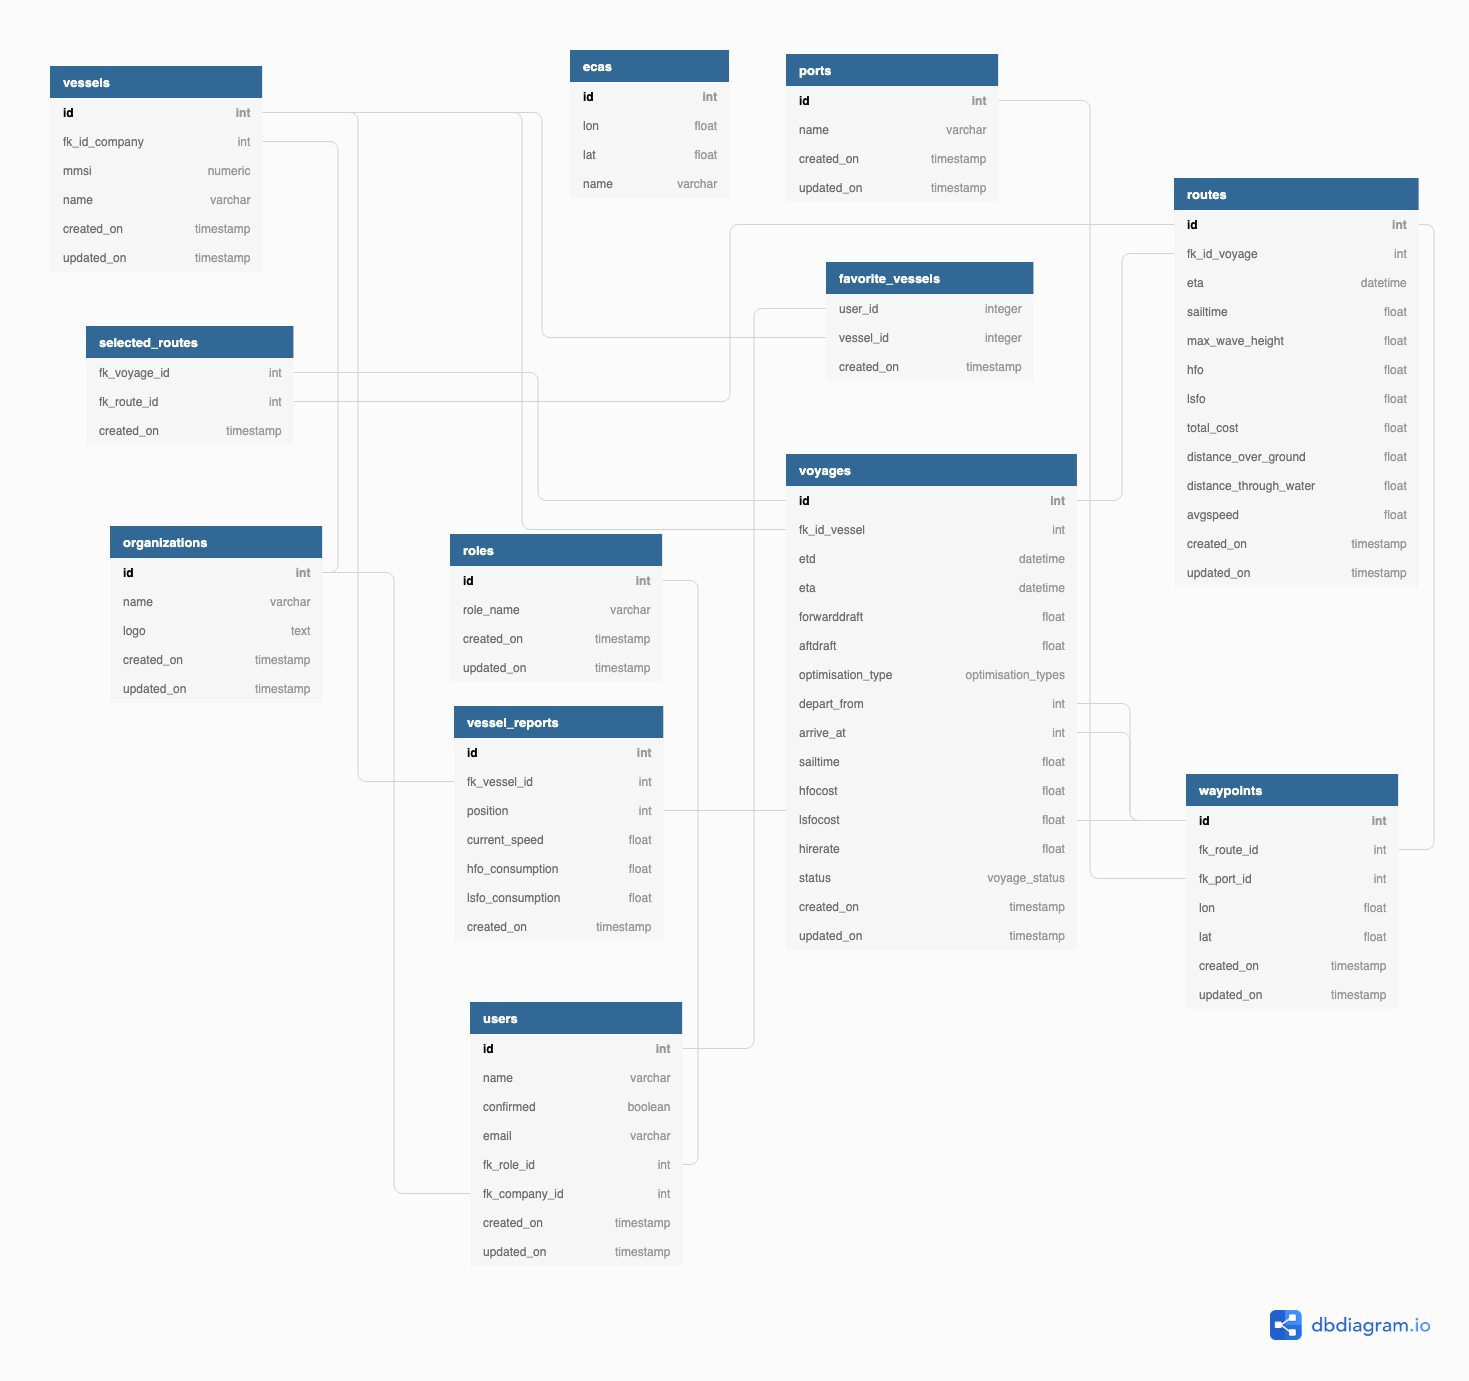
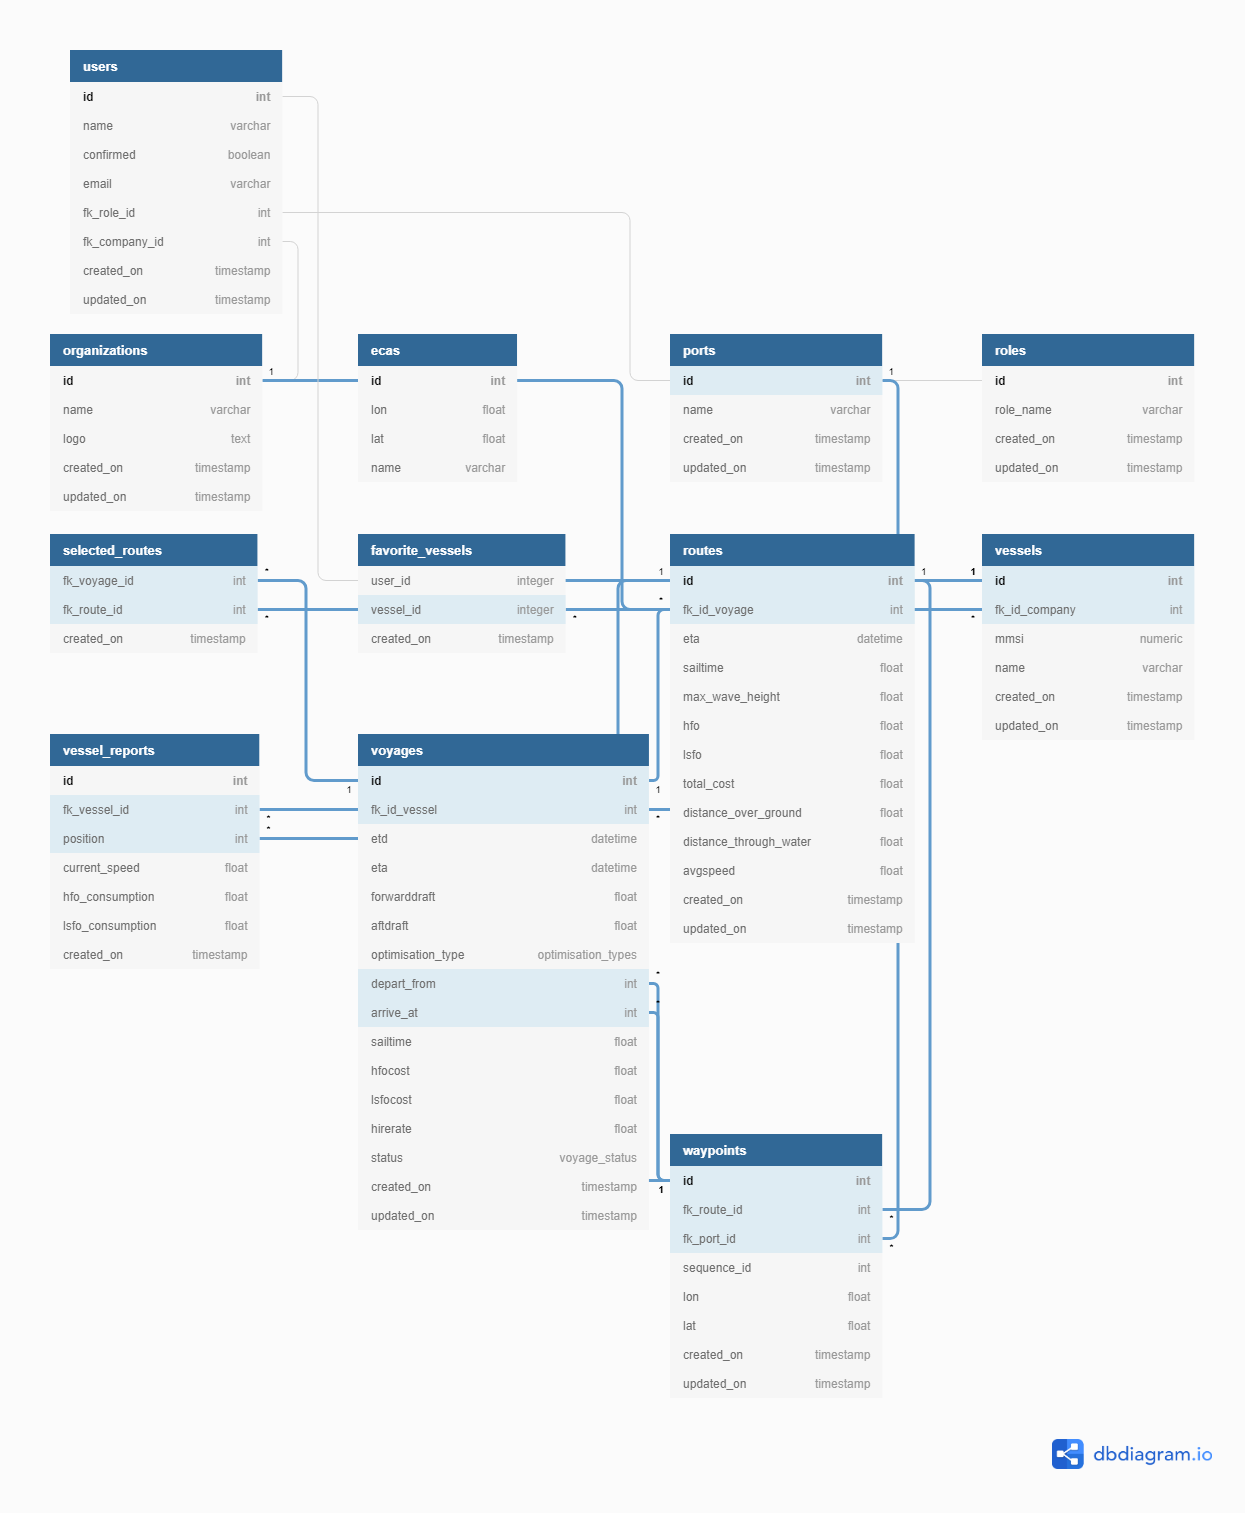
Create sequence waypoints (#28)
* DB Schema updated to show the sequence id added to waypoints table

* DB Schema updated to show the sequence id added to waypoints table

* Sequence id added to the waypoints database table

* Sequence id added to the waypoints database table & updated the DB Schema to reflect changes

* Updated to reflect the addition of sequence id to the waypoints table

diff --git a/src/server/migrations/20190911190658_add_sequence_id_to_waypoints.js b/src/server/migrations/20190911190658_add_sequence_id_to_waypoints.js
@@ -1,0 +1,13 @@
+"use strict";
+
+exports.up = function(knex, Promise) {
+  return knex.schema.table("waypoints", table => {
+    table.integer("sequence_id").unsigned();
+  });
+};
+
+exports.down = function(knex, Promise) {
+  return knex.schema.table("waypoints", table => {
+    table.dropColumn("sequence_id");
+  });
+};

diff --git a/README.md b/README.md
@@ -63,7 +63,7 @@ containing specifications on current position, speed, consumption and more.
 
 To get you started we have created a Database schema for you to follow. You can
 see a preview above or you can go to
-[dbdiagram.io](https://dbdiagram.io/d/5d67d65dced98361d6de0804) This schema is
+[dbdiagram.io](https://dbdiagram.io/d/5d798d7283427516dc0b9212) This schema is
 expected to change over the duration of the project, but since everyone is
 working on the same project it is important that you follow some guidelines if
 you need to change the DB.
@@ -199,30 +199,50 @@ https://knexjs.org/#Builder-identifier-syntax
 ### 📦 NPM scripts and commands
 
 | Command            | Note                                                                                                                                                |
-|--------------------|-----------------------------------------------------------------------------------------------------------------------------------------------------|
+| ------------------ | --------------------------------------------------------------------------------------------------------------------------------------------------- |
 | `npm run build`    | Build the project in production mode.                                                                                                               |
 | `npm start`        | Runs `build` and starts the project (to be used on production servers).                                                                             |
 | `npm run client`   | Runs the client application and serves it with webpack development server.                                                                          |
 | `npm run server`   | Runs the server and serves it via Nodemon, meaning that the server will automatically be restarted when you make code changes.                      |
-| `npm run dev`      | Runs `client` and `server` concurrently. *This is generally the command you run for development*.                                                   |
+| `npm run dev`      | Runs `client` and `server` concurrently. _This is generally the command you run for development_.                                                   |
 | `npm run db:setup` | Runs `knex migrate:latest` and `knex seed:run`. Quick setup to get a fresh database ready for work.                                                 |
 | `npm run do`       | Utility that allows you to easily run cli commands on npm packages installed in your `node_modules` folder without having to install them globally. |
 
 ## ✈ Working with migrations
 
-Migrations are there to help manage your database when you are working in a team. The goal of a migration is to take your database from one place (state) to another. So it is bit like travelling. Traveling in time even?
+Migrations are there to help manage your database when you are working in a
+team. The goal of a migration is to take your database from one place (state) to
+another. So it is bit like travelling. Traveling in time even?
 
 We are trying to solve two main things with migrations:
-- The pain of keeping the local database in your development environment up to date.
-- The challenge of making schema changes to a database with real production data in a predictable manner.
 
-Since are typically managed by writing ad hoc SQL to create the database, create new tables, change tables and change the data inside the database, migrations makes all of these tasks repeatable and predictable by basically adding all of these changes to git. Essentially the solution is to never manipulate the database schema directly with ad hoc queries, but always to out those queries in a script that is stored in git. Furthermore, since git allows you to "travel in time" by checking out past commits, changing branches, etc. we need a way for the database to keep up.
+- The pain of keeping the local database in your development environment up to
+  date.
+- The challenge of making schema changes to a database with real production data
+  in a predictable manner.
+
+Since are typically managed by writing ad hoc SQL to create the database, create
+new tables, change tables and change the data inside the database, migrations
+makes all of these tasks repeatable and predictable by basically adding all of
+these changes to git. Essentially the solution is to never manipulate the
+database schema directly with ad hoc queries, but always to out those queries in
+a script that is stored in git. Furthermore, since git allows you to "travel in
+time" by checking out past commits, changing branches, etc. we need a way for
+the database to keep up.
 
 ### Up 🛫 and down 🛬 migrations
 
-We do so by having two types of migrations. There are up migrations (🛫) that describes how to travel somewhere and there are down migrations (🛬) that describe how to get back home again. The down migrations are key, since these are what allows you to take your database back to an old state whenever you are checking out an old commit or a branch from before a certain up migration was applied. A down migration must always be the exact opposite of an up migration. A couple of examples in pseudo code (not real code! refer to the Knex section to learn to write real migrations):
+We do so by having two types of migrations. There are up migrations (🛫) that
+describes how to travel somewhere and there are down migrations (🛬) that
+describe how to get back home again. The down migrations are key, since these
+are what allows you to take your database back to an old state whenever you are
+checking out an old commit or a branch from before a certain up migration was
+applied. A down migration must always be the exact opposite of an up migration.
+A couple of examples in pseudo code (not real code! refer to the Knex section to
+learn to write real migrations):
 
 Creating tables:
+
 ```
 up migration:
   create table products
@@ -235,27 +255,31 @@ down migration:
 ```
 
 Renaming columns
+
 ```
 up migration:
   select table products
     rename column
       "name" > "product name"
-      
-      
+
+
 down migration:
   select table products
     rename column
       "product name" > "name"
 ```
 
-In some cases you might have real data in your database that you need to transform in some way. Again you must be careful to write a down migration to revert those changes:
+In some cases you might have real data in your database that you need to
+transform in some way. Again you must be careful to write a down migration to
+revert those changes:
+
 ```
 up migration:
   select table products
     select "name" from products
       replace string "foo" to "bar"
-      
-      
+
+
 down migration:
   select table products
     select "name" from products
@@ -264,7 +288,9 @@ down migration:
 
 ### Working with Knex.js
 
-Now we have an idea what migrations are it is time to introduce [Knex.js](http://knexjs.org/). We use Knex.js to facilitate migrations, but it does a few other things for us:
+Now we have an idea what migrations are it is time to introduce
+[Knex.js](http://knexjs.org/). We use Knex.js to facilitate migrations, but it
+does a few other things for us:
 
 - Manage database connection
 - Manage migrations and seed files
@@ -273,46 +299,69 @@ Now we have an idea what migrations are it is time to introduce [Knex.js](http:/
 
 ### 🔌 Database connection
 
-Knex.js helps us connect to the database quickly. Take a look at the [Knexfile](/src/server/knexfile.js).
+Knex.js helps us connect to the database quickly. Take a look at the
+[Knexfile](/src/server/knexfile.js).
 
-The file contains some database credentials (which are referenced from environment variables for security reasons) and some configuration including setting a path to the seeds directory. This file is really all you need to start connecting to your database when using Knex. 
+The file contains some database credentials (which are referenced from
+environment variables for security reasons) and some configuration including
+setting a path to the seeds directory. This file is really all you need to start
+connecting to your database when using Knex.
 
 ### ✈ Migration files in Knex.js
 
 So we learned a bit about migrations, but how do you use Knex to make them?
 
-Knex works by scanning the `/migrations` folder and looking for migrations *that have not yet been applied to the database*. How does it keep track of this? Easy. It has it's own table in the database `knex_migrations` where migrations are added once they have been run.
+Knex works by scanning the `/migrations` folder and looking for migrations _that
+have not yet been applied to the database_. How does it keep track of this?
+Easy. It has it's own table in the database `knex_migrations` where migrations
+are added once they have been run.
 
 ### 🌱 Seed files in Knex.js
 
-In addition to migrations which are generally concerned with updating the structure or the "schema" of your database, Knex.js provides something called "seeds". As the name suggest seeds are scripts that "plant" some data that can later grow to something bigger. Often when you are building an application you need to have some initial data in your application to test that everything works. That might be the initial user that is able to then create more users, organizations and so on, or it could be thousands of lines of data to load up the application with realistic content for testing purposes.
+In addition to migrations which are generally concerned with updating the
+structure or the "schema" of your database, Knex.js provides something called
+"seeds". As the name suggest seeds are scripts that "plant" some data that can
+later grow to something bigger. Often when you are building an application you
+need to have some initial data in your application to test that everything
+works. That might be the initial user that is able to then create more users,
+organizations and so on, or it could be thousands of lines of data to load up
+the application with realistic content for testing purposes.
 
 ### ⌨ Knex CLI
 
-Make sure to always refer to [the official Knex documentation for latest updates](http://knexjs.org/).
+Make sure to always refer to
+[the official Knex documentation for latest updates](http://knexjs.org/).
 
-The project comes with the knex npm package pre-installed, but to use the api smoothly it is recommended to install knex globally with:
+The project comes with the knex npm package pre-installed, but to use the api
+smoothly it is recommended to install knex globally with:
+
 ```
 npm install -g knex
 ```
+
 (you might have to prefix the command with sudo if you get a write access error)
 
-Note: When running knex commands you must always do so from the `/src/server/` directory since knex will look for your knexfile in the directory you are currently in.
+Note: When running knex commands you must always do so from the `/src/server/`
+directory since knex will look for your knexfile in the directory you are
+currently in.
 
 Here is a list of some important Knex commands to know:
 
 | Command                            | Note                                                                                          |
-|------------------------------------|-----------------------------------------------------------------------------------------------|
+| ---------------------------------- | --------------------------------------------------------------------------------------------- |
 | `knex migrate:latest`              | Run "latest" migrations (i.e. migrations that have not previously been run on your database). |
 | `knex migrate:rollback`            | "Roll back" the latest migration.                                                             |
 | `knex migrate:make migration_name` | Create a new migration file in the `/migrations` folder.                                      |
 | `knex seed:run`                    | Run the seed files from the seeds folder.                                                     |
 
-In addition to the commands above, we have a npm script called `npm run db:setup` which is shorthand for running `knex migrate:latest` followed by `knex seed:run`.
+In addition to the commands above, we have a npm script called
+`npm run db:setup` which is shorthand for running `knex migrate:latest` followed
+by `knex seed:run`.
 
 ### Building queries in Knex.js
 
-Knex provides a query builder interface. What it basically allows you to do is to use an api to generate SQL similar to this:
+Knex provides a query builder interface. What it basically allows you to do is
+to use an api to generate SQL similar to this:
 
 ```
 const users = await knex
@@ -322,16 +371,33 @@ const users = await knex
     email: "hello@test.com
   });
 ```
+
 Which will essentially generate the following SQL:
+
 ```
 select * from `users` where `email` = 'hello@test.com'
 ```
 
-In some cases using an API like that might be easier than writing raw SQL, as there is less risk of making mistakes when trying to put together dynamic SQL queries, concatenating strings and values from different sources. But on the other hand, it also requires learning a new API which may add additional overhead. We cannot provide the API documentation here, but you can find all the instructions you need at [http://knexjs.org/](http://knexjs.org/). Furthermore this [Cheat sheet](https://devhints.io/knex) might be helpful.
+In some cases using an API like that might be easier than writing raw SQL, as
+there is less risk of making mistakes when trying to put together dynamic SQL
+queries, concatenating strings and values from different sources. But on the
+other hand, it also requires learning a new API which may add additional
+overhead. We cannot provide the API documentation here, but you can find all the
+instructions you need at [http://knexjs.org/](http://knexjs.org/). Furthermore
+this [Cheat sheet](https://devhints.io/knex) might be helpful.
 
-Using query builders like Knex, or even Object-Relation Mappers (ORMs), is subject to much debate among developers. Some believe it is worth it learning to use an API to interact with the database, others believe it is more value to become good at using SQL, rather than abstracting it away. Using Knex' query builder functionalities are *not mandatory* for this project, but we find that the API is simple enough that it might be helpful. *Using migrations, however, is a mandatory part of this project*.
+Using query builders like Knex, or even Object-Relation Mappers (ORMs), is
+subject to much debate among developers. Some believe it is worth it learning to
+use an API to interact with the database, others believe it is more value to
+become good at using SQL, rather than abstracting it away. Using Knex' query
+builder functionalities are _not mandatory_ for this project, but we find that
+the API is simple enough that it might be helpful. _Using migrations, however,
+is a mandatory part of this project_.
 
-If you do not wish to use the knex query builder api, you can always use the command `knex.raw()` to execute "raw" SQL statements against your database while still leveraging Knex to connect to the database:
+If you do not wish to use the knex query builder api, you can always use the
+command `knex.raw()` to execute "raw" SQL statements against your database while
+still leveraging Knex to connect to the database:
+
 ```
 knex.raw('select * from `users` where `email` = "hello@test.com"');
 ```
